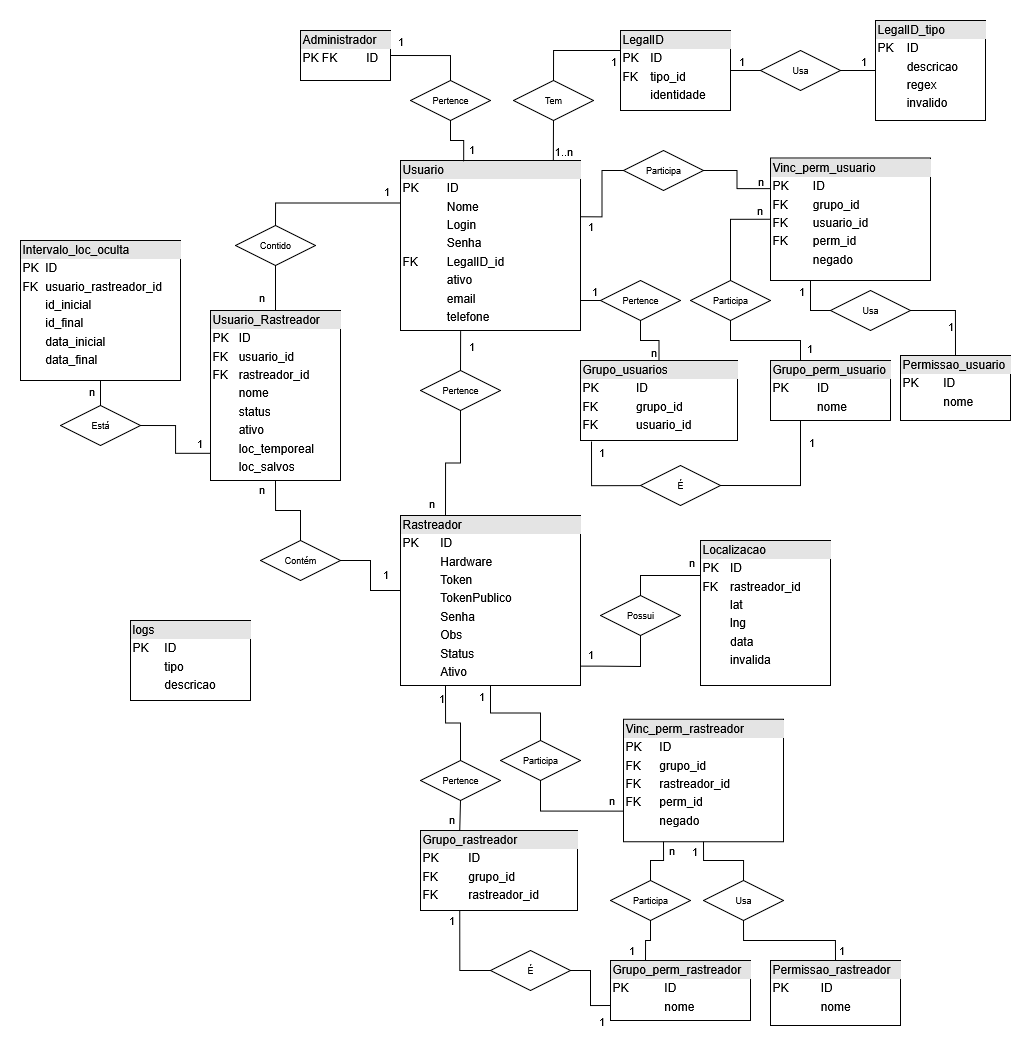
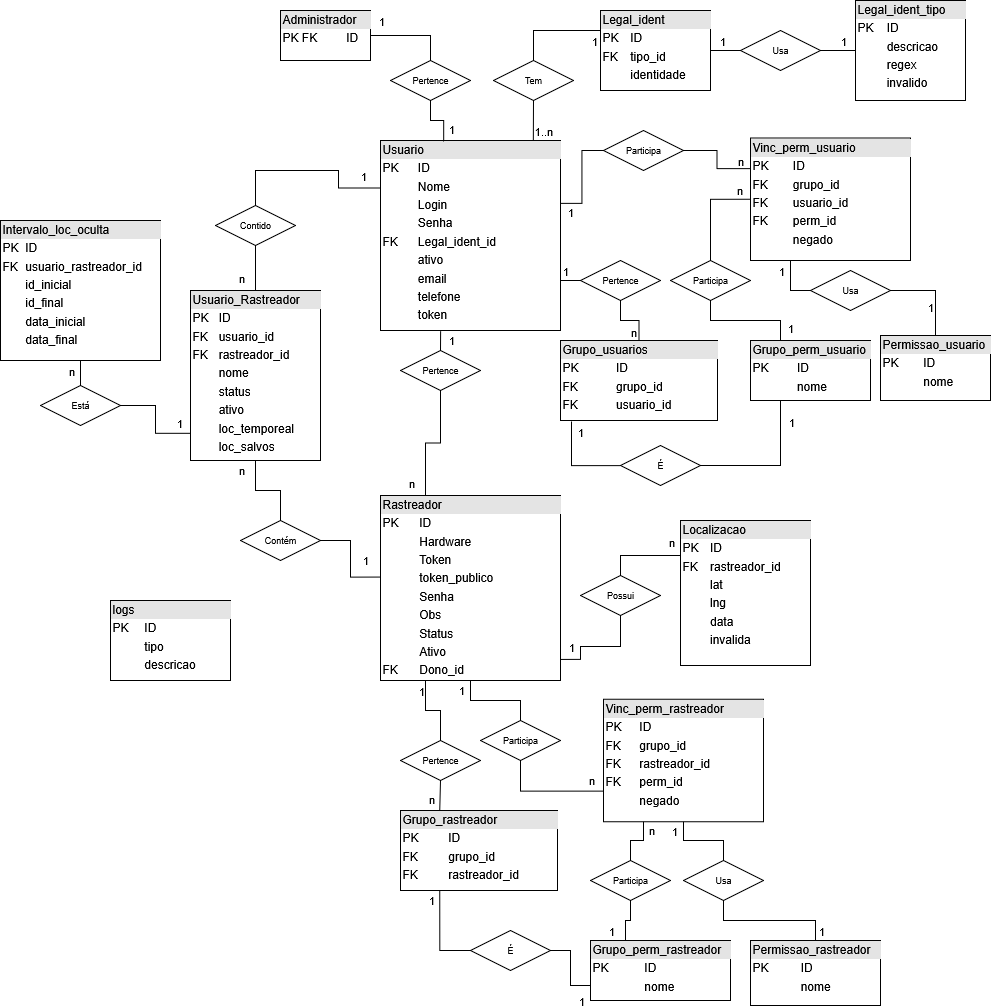
docs: include owner in tracker table & user token

diff --git a/Diagramas/EntidadeRelacionamento/readme.md b/Diagramas/EntidadeRelacionamento/readme.md
@@ -10,6 +10,7 @@
         | 2 | (registrado) Visualização do rastreio pausada |
         | 3 | (não registrado) o usuario está aguardando o dono aprovar sua inclusão |
         | 4 | (não registrado) o dono está aguardando um usuario aceitar a proposta |
+        | 5 | (registrado) Este ouvinte recebeu um pedido de transferência, o dono espera pela resposta |
     1. ativo
         | Booleano | Significado |
         | :-: | :- |
